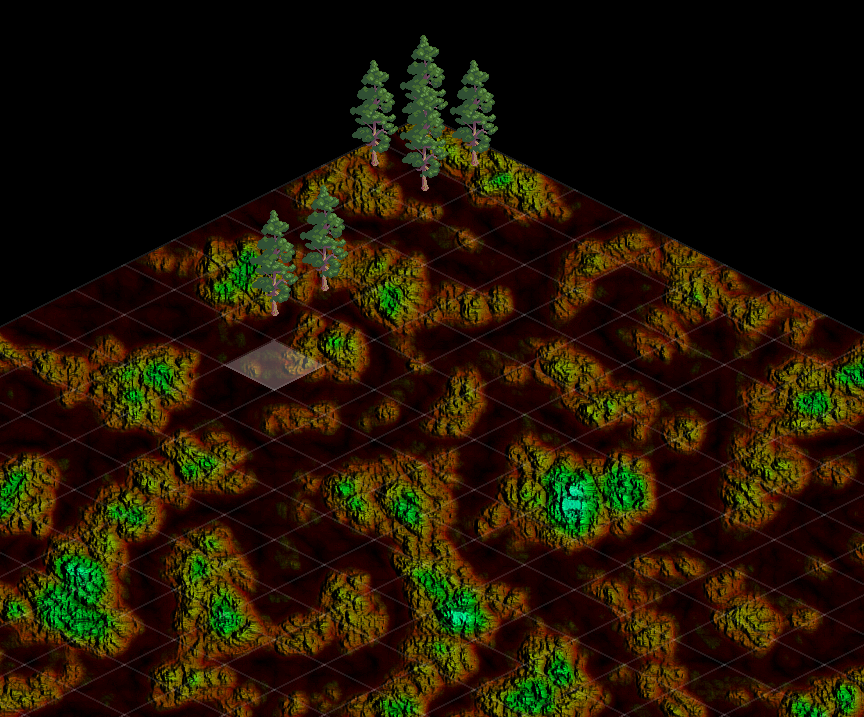
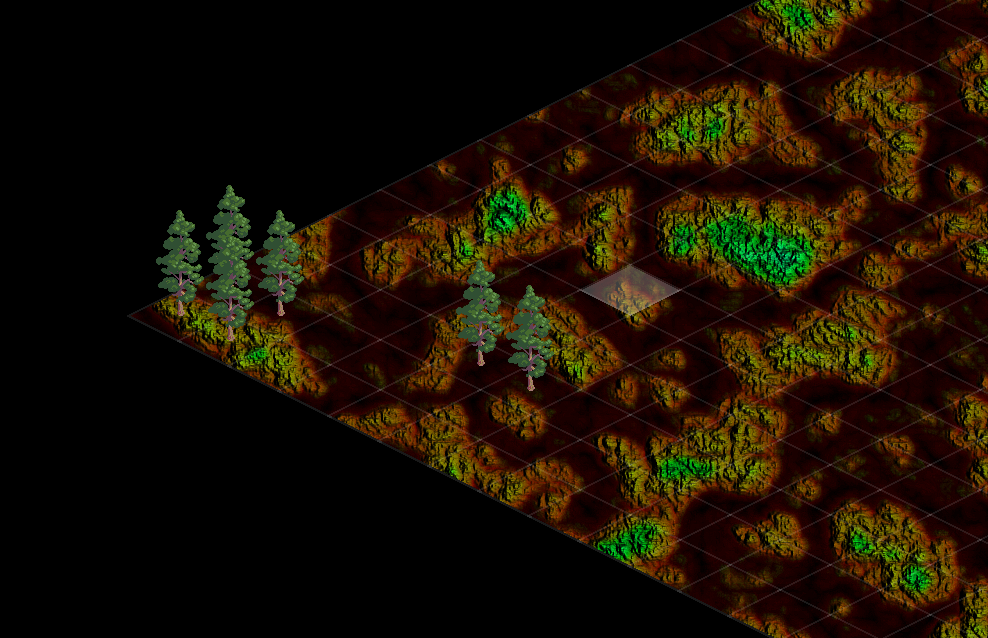
add squareIso

diff --git a/src/SFML-utils/map/tileShapes/SquareIso.cpp b/src/SFML-utils/map/tileShapes/SquareIso.cpp
@@ -18,14 +18,17 @@ namespace sfutils
 
         sf::Vector2f SquareIso::mapCoordsToPixel(int X,int Y,float scale)
         {
-            return sf::Vector2f((X-Y)* width/2 * scale,
-                                (X+Y)* height/2 * scale);
+            return sf::Vector2f((X+Y)* width/2 * scale,
+                                (-X+Y)* height/2 * scale);
         }
 
         sf::Vector2i SquareIso::mapPixelToCoords(float X,float Y,float scale)
         {
-            return round((X/width + Y/height)/ scale,
-                         (-X/width + Y/height)/scale);
+            return round((X/width - Y/height)/scale,
+                         (X/width + Y/height) / scale);
+
+            /*return round((X/width + Y/height)/ scale,
+                         (-X/width + Y/height)/scale);*/
         }
 
         sf::Vector2i SquareIso::round(float x, float y)
